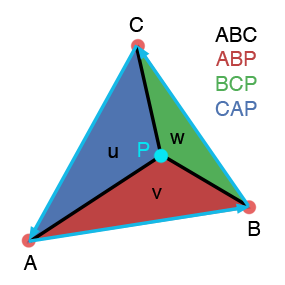
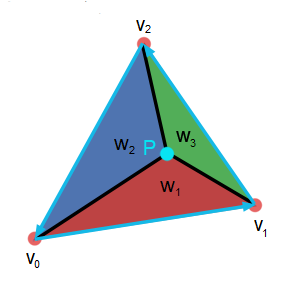
rasterization almost finished

Changed region(s): [[0.0561, 0.0561, 0.9263, 0.9544], [0.7579, 0.0842, 0.8982, 0.4211], [0.5333, 0.6175, 0.6456, 0.7018]]

diff --git a/docs/md/docs/workshops/rendering/rasterization.md b/docs/md/docs/workshops/rendering/rasterization.md
@@ -5,27 +5,45 @@
 </div>
 
 # Problem statement
+
 Visualizar algún algoritmo de computación visual, e.g., image-kernels acá un [ejemplo](https://setosa.io/ev/image-kernels/) o rasterización de un triángulo empleando coordenadas baricéntricas, etc. Nota: se puede emplear la librería [p5.quadrille.js](https://objetos.github.io/p5.quadrille.js/).
 
 # Background
 
 ## Rasterization
+
 The *rasterization rendering technique* is a common technique used to render images of 3D scenes. The algorithm takes an image described in a vector graphic formant and converting it into a raster image. The raster image could be described as a series of pixels, dots or lines, and they together can represent the whole initial image.
 
 This technique was created a long time ago (between the '60s and the early '80s), it doesn't mean that it is obsolete, quite the contrary, plenty of the images which are rendered use this technique. This algorithm solves the **visibility problem** where we want to describe which parts of 3D objects are visible to the camera located at a certain point. We need to be aware that some parts of the object could be either hidden by others objects on the scene or outside of the camera's visibility.
 
 There are lots of rasterization algorithms and they are different, however, they're based in the same overall principle. In other words, all these algorithms are different ways to develop de same idea. To rasterize a triangle we're gonna use a method called *barycentric coordinates*.
 
-## Triangle rasterization using barycentric coordinates
-When we are talking about a  triangle in 2D, it consists in 3 vertices and 3 edges and it divides the plane into two regions: the *interior*, which is finite, and the *exterior* which is not. These regions are delimited or separated by the boundary of the triangle and its three edges. If we want to rasterize a triangle, we need to query a bunch of points which corresponding to the pixel grid, and find out whether they are inside or not.
+>:P5 width=754, height=275
+>
+> let img;
+>
+> function preload() {
+>   img = loadImage("/vc/docs/sketches/rendering/rasterizatioExample.png");
+> }
+>
+> function setup() {
+>   createCanvas(754, 275);
+>   image(img, 0, 0, width, height);
+>
+>   frameRate(1);
+> }
 
-So, what are barycentric coordinates? they can be used to express the position of any point located, in this particular case, on the triangle with three scalars [w_0, w_1, w_2](:Formula) that acts as *weights* for the corresponding vertices. The position could be any position inside or on the triangle, any of the edges, or tringle's vertices. For example, the coordinates [(1, 0, 0)](:Formula), [(0, 1, 0)](:Formula), [(0, 0, 1)](:Formula) correspond to [v_0](:Formula), [v_1](:Formula) and [v_2](:Formula) respectively. So we can compute the position of a certain point using the next equation:
+## Triangle rasterization using barycentric coordinates
+
+When we are talking about a  triangle in 2D, barycentric coordinates are also known as *area coordinates* or *areal coordinates*, it consists in 3 vertices and 3 edges and it divides the plane into two regions: the *interior*, which is finite, and the *exterior* which is not. These regions are delimited or separated by the boundary of the triangle and its three edges. If we want to rasterize a triangle, we need to query a bunch of points which corresponding to the pixel grid, and find out whether they are inside or not.
+
+So, what are barycentric coordinates? Barycentric coordinates are a type of homogeneous coordinates, and in fact both were introduced in the same paper by Möbius in 1827. They can be used to express the position of any point located, in this particular case, on the triangle with three scalars [w_0, w_1, w_2](:Formula) that acts as *weights* for the corresponding vertices. The position could be any position inside or on the triangle, any of the edges, or tringle's vertices. For example, the coordinates [(1, 0, 0)](:Formula), [(0, 1, 0)](:Formula), [(0, 0, 1)](:Formula) correspond to [v_0](:Formula), [v_1](:Formula) and [v_2](:Formula) respectively. So we can compute the position of a certain point using the next equation:
 
 > :Formula align=center
 > 
-> P = uA + uB + wC
+> p = \frac{w_0v_0 + w_1v_1 + w_2v_2}{w_0 + w_1 + w_2}
 
-Where [A](:Formula), [B](:Formula), [C](:Formula) are the triangle's vertices and [u](:Formula), [v](:Formula), [w](:Formula) the barycentric coordinates, where [u + v + w = 1](:Formula) (v.c. are normalized). The point [P](:Formula) is within the triangle if [0 \leq u, v, w \leq 1](:Formula), if any point is zero means that the point is on the edge, and if any point is negative or greater than one that's because it is outside the triangle.
+Where [v_0](:Formula), [v_1](:Formula), [v_2](:Formula) are the triangle's vertices and [w_0](:Formula), [w_1](:Formula), [w_2](:Formula) the barycentric coordinates, where [w_0 + w_1 + w_2 = 1](:Formula) (v.c. are normalized). The point [p](:Formula) is within the triangle if [0 \leq w_0, w_1, w_2 \leq 1](:Formula), if any point is zero means that the point is on the edge, and if any point is negative or greater than one that's because it is outside the triangle. Since we divide through by their sum, they’re only unique up to scale.
 
 >:P5 width=285, height=285
 >
@@ -42,20 +60,269 @@ Where [A](:Formula), [B](:Formula), [C](:Formula) are the triangle's vertices an
 >   frameRate(1);
 > }
 
-# Code (solution) and results
+To get a normalized version of the barycentric coordinates [\lambda](:Formula), before we need to know about the *edge functions* that says us how a point [p](:Formula) is related to a certain edge. For example, regarding de edges [v_0v_1, v_1v_2, v_2v_0](:Formula) and a point [p](:Formula) we've got:
 
-> :P5 sketch=/docs/sketches/rendering/barycentricCoordinates.js, width=800, height=400
+> :Formula align=center
+>
+> F_{01}(p) := (v_{0y} - v_{1y})p_x + (v_{1x} - v_{0x})p_y + (v_{0x}v_{1y} - v_{0y}v_{1x})
+>
+> F_{12}(p) := (v_{1y} - v_{2y})p_x + (v_{2x} - v_{1x})p_y + (v_{1x}v_{2y} - v_{1y}v_{2x})
+>
+> F_{20}(p) := (v_{2y} - v_{0y})p_x + (v_{0x} - v_{2x})p_y + (v_{2x}v_{0y} - v_{2y}v_{0x})
+
+These are what we'll call the *edge functions* for every single edge on the triangle, where [F_{01}(p) + F_{12}(p) + F_{20}(p) = F_{01}(v_2) = F_{12}(v_0) = F_{20}(v_1) = 2\triangle{(v_0, v_1, v_2)}](:Formula).
+
+Already having knowledge about the *edge functions* we can define [\lambda](:Formula) as a normalized version of the barycentric coordinates with their sum always being 1:
+
+> :Formula align=center
+>
+> \lambda_0(p):= \frac{F_{12}(p)}{2\triangle{(v_0, v_1, v_2)}}
+>
+> \lambda_1(p):= \frac{F_{20}(p)}{2\triangle{(v_0, v_1, v_2)}}
+>
+> \lambda_2(p):= \frac{F_{01}(p)}{2\triangle{(v_0, v_1, v_2)}}
+
+# Code (solution) and results
+> :Tabs
+> > :Tab title=sketch
+> >
+> > > :P5 sketch=/docs/sketches/rendering/barycentricCoordinates.js, width=800, height=400
+>
+> > :Tab title=code
+> >
+> >```js |barycentricCoordinates.js
+> >let pg;
+> >let pg2;
+> >//Declaracion de variables para las coordenadas
+> >var alpha;
+> >var beta;
+> >var gamma;
+> >var alphaS;
+> >var betaS;
+> >var gammaS;
+> >
+> >/* Definición de coordenadas baricentricas a partir de tres puntos de un 
+> >   triangulo (a, b, c) y un punto arbitrario p=(x,y)*/
+> >function barycentric(ax, ay, bx, by, cx, cy, x, y) {
+> >    var d = (by - cy) * (ax - cx) + (cx - bx) * (ay - cy);
+> >    alpha = ((by - cy) * (x - cx) + (cx - bx) * (y - cy)) / d;
+> >    beta = ((cy - ay) * (x - cx) + (ax - cx) * (y - cy)) / d;
+> >    gamma = 1.0 - alpha - beta;
+> >    alphaS = nf(alpha, 1, 2);
+> >    betaS = nf(beta, 1, 2);
+> >    gammaS = nf(gamma, 1, 2);
+> >}
+> >
+> >// Declaracion de variables usadas en la realizacion de la cuadricula en el canvas
+> >var squares;
+> >var squaresF;
+> >var row;
+> >var col;
+> >var pointA;
+> >var i;
+> >var j;
+> >
+> >//Algoritmo de Rasterizacion que emplea coordenadas baricentricas
+> >function drawSquares() {
+> >    //Inicializacion de contadores
+> >    i = 0;
+> >    j = 0;
+> >    col = 0;
+> >    row = squaresF;
+> >    //Recorrer las columnas y las filas
+> >    for (i = 0; i <= squares; i++) {
+> >        col = 0;
+> >        for (j = 0; j <= squares; j++) {
+> >            //Grosor del trazo
+> >            strokeWeight(1);
+> >            /*Si el punto medio de la celda que estoy analizando esta dentro del 
+> >             area cubierta por el triangulo*/
+> >            if (inside_triangle(ax, ay, bx, by, cx, cy, col + pointA, row + pointA)) {
+> >                //Calcular las coordenadas baricentricas del punto medio de la celda
+> >                barycentric(ax, ay, bx, by, cx, cy, col + pointA, row + pointA);
+> >                /*Rellenar la celda con la interpolacion entre las coordenadas 
+> >                  baricentricas y los colores definidos*/
+> >                pg2.fill(239 * alpha, 247 * beta, 255 * gamma);
+> >                //Dibujar la celda recien analizada
+> >                pg2.rect(col, row, squaresF, squaresF);
+> >            } else {
+> >                //Si el punto medio no está en el area cubierta por el triangulo
+> >                //Rellenar de color blanco la celda
+> >                pg2.fill(255, 255, 255);
+> >                //Dibujar la celda recien analizada
+> >                pg2.rect(col, row, squaresF, squaresF);
+> >            }
+> >            //Pintar el en canvas el punto medio de la celda analizada
+> >            strokeWeight(3);
+> >            stroke(153, 153, 255);
+> >            point(col + pointA, row + pointA);
+> >            //Poner el color de trazo en negro para el siguiente ciclo
+> >            stroke(0);
+> >            /*Actualizar la variable col con el valor de la ubicacion del
+> >              inicio de la siguiente columna de celdas*/
+> >            col += squaresF;
+> >        }
+> >        /*Actualizar la variable row con el valor de la ubicacion del 
+> >          inicio de la siguiente fila de celdas*/
+> >        row += squaresF;
+> >    }
+> >    //Poner el rellenado en transparenete para el siguiente ciclo del canvas
+> >    pg2.fill(255, 255, 255, 0);
+> >}
+> >
+> >/* Comprobación de si un punto (x, y) dado esta dentro del área que cubre 
+> >   un triangulo con vertices a, b, c*/
+> >// 1. Calcula coordenadas baricentricas del punto p
+> >// 2. Comprueba si los valores de alpha, beta y gamma tienen valores entre 0 y 1, 
+> >//   es decir demostrando que p está dentro del triangulo
+> >function inside_triangle(ax, ay, bx, by, cx, cy, x, y) {
+> >    var d = (by - cy) * (ax - cx) + (cx - bx) * (ay - cy);
+> >    var alpha = ((by - cy) * (x - cx) + (cx - bx) * (y - cy)) / d;
+> >    var beta = ((cy - ay) * (x - cx) + (ax - cx) * (y - cy)) / d;
+> >    var gamma = 1.0 - alpha - beta;
+> >    return !(alpha < 0 || alpha > 1 || beta < 0 || beta > 1 || gamma < 0 || gamma > 1);
+> >}
+> >
+> >// Declaracion de variables para definir los tres puntos que conforman el triangulo
+> >var ax;
+> >var ay;
+> >var bx;
+> >var by;
+> >var cx;
+> >var cy;
+> >
+> >// Setup del canvas con la inicialización de variables y la creación del canvas
+> >function setup() {
+> >    alpha = 0;
+> >    beta = 0;
+> >    gamma = 0;
+> >    alphaS = null;
+> >    betaS = null;
+> >    gammaS = null;
+> >    //Cantidad de celdas en alto y ancho que habrá en la cuadrícula
+> >    squares = 20;
+> >    //Valor del tammaño de cada celda de la cuadricula inicial
+> >    squaresF = 10;
+> >    //Contador de la fila y la columna inicial de la cuadricula
+> >    row = 0;
+> >    col = 0;
+> >    //Punto medio inicial
+> >    pointA = 0;
+> >    //Contadores de ciclos
+> >    i = 0;
+> >    j = 0;
+> >    //Coordenadas del triangulo inicial
+> >    ax = 0;
+> >    ay = 0;
+> >    bx = 0;
+> >    by = 0;
+> >    cx = 0;
+> >    cy = 0;
+> >    //Creación del canvas
+> >    createCanvas(800, 400);
+> >    pg = createGraphics(400, 400);
+> >    pg2 = createGraphics(400, 400);
+> >    //Definir cantidad de pixeles por celda de la cuadrícula
+> >    squaresF = ((width/2) / squares);
+> >    // Punto medio de la primer celda
+> >    pointA = (squaresF / 2);
+> >    //Coordenadas del triangulo inicial
+> >    //Definición del modo de color y escala de este
+> >    pg.colorMode(RGB, 255);
+> >    //Coordenadas del triangulo inicial
+> >    ax = width / 8;
+> >    ay = 50;
+> >    bx = ax * 3;
+> >    by = 50;
+> >    cx = ((bx - ax) / 2) + ax;
+> >    cy = height - 11;
+> >}
+> >
+> >function draw() {
+> >    //Poner fondo blanco en el canvas
+> >    background(255);
+> >    pg.background(100);
+> >    //pg2.background(254);
+> >    //Dibujar la cuadrícula y rasterizar el tríangulo actual
+> >    drawSquares();
+> >    //Grosor del trazado 
+> >    pg.strokeWeight(1);
+> > 
+> >    //Tazar con color negro
+> >    pg.stroke(0);
+> >    pg2.stroke(0);
+> >    //Rellenar con color negro el triangulo actual
+> >    pg.fill(1);
+> >    pg.triangle(ax, ay, bx, by, cx, cy);
+> >    pg2.triangle(ax, ay, bx, by, cx, cy);
+> >  
+> >    //Calcular coordenadas baricentricas
+> >    barycentric(ax, ay, bx, by, cx, cy, mouseX, mouseY);
+> >    //Estilizar tamaño de texto y alineación del mismo en el canvas
+> >    pg.textSize(20);
+> >    pg.textAlign(LEFT, CENTER);
+> >    //Mostrar en pantalla los valores calculados de alpha, beta y gamma
+> >    pg.fill(163, 217, 255);
+> >    pg.text("λ0: " + alphaS, 10, 60);
+> >    pg.fill(220, 247, 99);
+> >    pg.text("λ1: " + betaS, 10, 80);
+> >    pg.fill(239, 199, 194);
+> >    pg.text("λ2: " + gammaS, 10, 100);
+> >
+> >    pg.strokeWeight(2);
+> >    /*Si el mouse está en el area dentro del triangulo llenar los subtriangulos 
+> >    que se forman entre el mouse y los vertices con el color respectivo*/
+> >    if (inside_triangle(ax, ay, bx, by, cx, cy, mouseX, mouseY)) {
+> >        pg.stroke(0, 0, 0);
+> >        pg.fill(239, 199, 194);
+> >        pg.triangle(ax, ay, mouseX, mouseY, bx, by);
+> >        pg.fill(163, 217, 255);
+> >        pg.triangle(bx, by, mouseX, mouseY, cx, cy);
+> >        pg.fill(220, 247, 99);
+> >        pg.triangle(cx, cy, mouseX, mouseY, ax, ay);
+> >    } else {
+> >        pg.stroke(1, 0, 0);
+> >    }
+> >    //Marcador de punto en la ubicación del cursor en el canvas
+> >    pg.point(mouseX, mouseY);
+> >
+> >    /*Cambio de coordenadas de los vertices del triangulo segun el 
+> >    click con los botones central, derecho e izquierdo*/
+> >    if (mouseIsPressed) {
+> >        if (mouseButton == LEFT) {
+> >            ax = mouseX;
+> >            ay = mouseY;
+> >        }
+> >        if (mouseButton == RIGHT) {
+> >            bx = mouseX;
+> >            by = mouseY;
+> >        }
+> >        if (mouseButton == CENTER) {
+> >            cx = mouseX;
+> >            cy = mouseY;
+> >        }
+> >    }
+> >
+> >    image(pg, 0, 0)
+> >    image(pg2, 400, 0, 400, 400)
+> >}
+> >```
 
 # Conclusions
+
 + ...
 
 # Future work
+
 + ...
 
 # References
+
 1. Wikipedia contributors. (2021, 10 julio). Rasterisation. Wikipedia. https://en.wikipedia.org/wiki/Rasterisation
 2. S. (2015, 25 enero). Rasterization: a Practical Implementation. Scratchapixel. https://www.scratchapixel.com/lessons/3d-basic-rendering/rasterization-practical-implementation/overview-rasterization-algorithm 
 3. The barycentric conspiracy. (2017, 9 abril). The Ryg Blog. https://fgiesen.wordpress.com/2013/02/06/the-barycentric-conspirac/
 4. S. (2014, 15 agosto). Ray Tracing: Rendering a Triangle (Barycentric Coordinates). © 2009–2016 Scratchapixel. https://www.scratchapixel.com/lessons/3d-basic-rendering/ray-tracing-rendering-a-triangle/barycentric-coordinates
+5. Barycentric Coordinates. (s. f.). OpenProcessing. https://openprocessing.org/sketch/187087/
+6. JoseMolano. (2017, 27 noviembre). CompVisualProy. GitHub repository. https://github.com/JoseMolano/CompVisualProy.git
 
 > :ToCPrevNext

diff --git a/docs/md/docs/workshops/rendering/zBuffer.md b/docs/md/docs/workshops/rendering/zBuffer.md
@@ -5,9 +5,11 @@
 </div>
 
 # Problem statement
+
 Realizar una indagación teórica de algún [algoritmo de visibilidad](https://en.wikipedia.org/wiki/Hidden-surface_determination) o algún método de [iluminación global](https://en.wikipedia.org/wiki/Global_illumination#List_of_methods).
 
 # Background
+
 *Z-buffering* , also known as *depth buffering*, is a technique in [graphics programming](https://en.wikipedia.org/wiki/Computer_graphics) and was first described in 1974 by Wolfgang Straßer in his PhD thesis on fast algorithms for rendering occluded objects. Later that year, Edwin Catmull invented the concept of Z-buffer. It is used to determine whether an object (or part of an object) is visible in a scene from a certain perspective. Most of the time, this algorithm is done in hardware, but sometimes is used in software, as well. It is one solution to the visibility problem that is the problem of which rendered scenes are visible and which are hidden. 
 
 When scenes are being rendered, each pixel has two differents coordinates *X* and *Y* (horizontal and vertical orientation to the camera), and a *Z* coordinate (distance from the camera). The z-buffer is a two-dimensional array that stores the Z-value of each screen pixel. If another object must be rendered at the same pixel location (*X*, *Y*), the algorithm compares which Z-value is closer to the camera, if the first one is deeper than the second one, then the algorithm overrides the oldest value. The Z-Buffer algorithm tries to reproduce the usual way we perceive the objects in the real world, a closer object hides a further one.
@@ -111,6 +113,7 @@ Hence, calculation of depth can be done by recording the plane equation of each 
 Due to a bad management of a significant chunk of the available memory bandwidth, a lot of methods have been employed to reduce the performance cost of z-buffering, such as lossless compression, and ultra-fast hardware z-clear that makes obsolete the "*one frame positive, one frame negative*" trick. These changes were implemented since 1999.
 
 # Code (solution) and results
+
 > :Tabs
 > > :Tab title=sketch
 > >
@@ -232,23 +235,22 @@ Due to a bad management of a significant chunk of the available memory bandwidth
 > >```
 
 # Conclusions
+
 + Z-buffer is an algorithm that is better to use in situations where don't exist invisible objects, because in that case the position of that ones should be calculated using a different way.
-
 + Z-buffer is a great algorithm to represent 3d escenarios in a 2 dimensional array.
-
 + A lot of improvements have been imlemented in the Z-buffer algorithm since it was created in 1974.
-
 + This method can be executed quickly even with many polygons, because its easy to calculate the depth of a complete row by calculating the depth of only one pixel of that row.
 
 # Future work
-+ We expect to be able to use this method to represent multiple polygons in 3d escenarios using a 2 dimensional array.
 
++ We expect to be able to use this method to represent multiple polygons in 3d escenarios using a 2 dimensional array.
 + We expect to be able to implement improvements to this algorithm that haven't been implemented before, so that this method uses less resources from the machine.
 
 # References
 1. Wikipedia contributors. (2021, 28 junio). Z-buffering. Wikipedia. https://en.wikipedia.org/wiki/Z-buffering
 2. LearnOpenGL - Depth testing. (s. f.). Depth Testing. https://learnopengl.com/Advanced-OpenGL/Depth-testing
-3. Z-Buffer or Depth-Buffer method. geeksforgeeks. https://www.geeksforgeeks.org/z-buffer-depth-buffer-method/
-4. How to render z-buffer (Depth pass) image of a 3D scene. https://forum.processing.org/two/discussion/2153/how-to-render-z-buffer-depth-pass-image-of-a-3d-scene
+3. Computer Hope. (2017, 27 junio). What is z-buffering? https://www.computerhope.com/jargon/z/zbuffering.htm
+4. Z-Buffer or Depth-Buffer method. geeksforgeeks. https://www.geeksforgeeks.org/z-buffer-depth-buffer-method/
+5. How to render z-buffer (Depth pass) image of a 3D scene. https://forum.processing.org/two/discussion/2153/how-to-render-z-buffer-depth-pass-image-of-a-3d-scene
 
 > :ToCPrevNext
